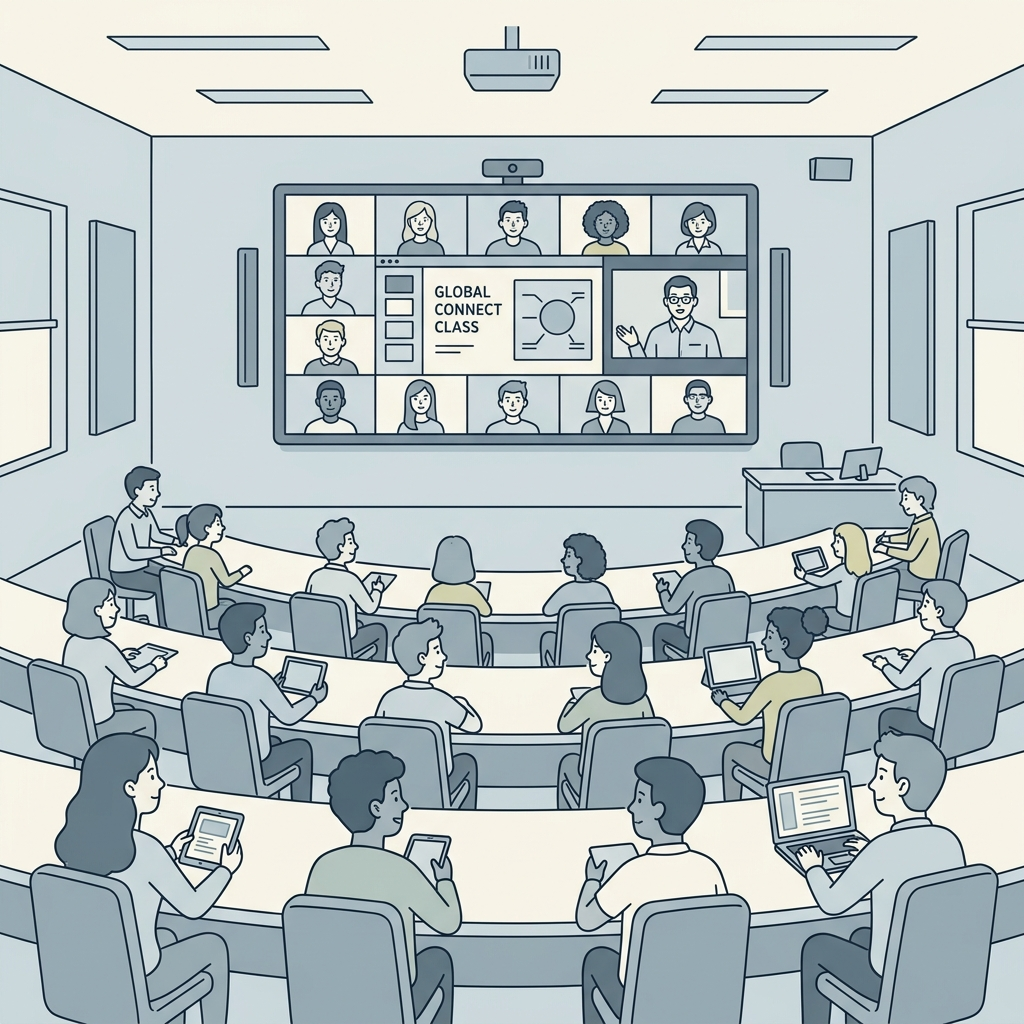
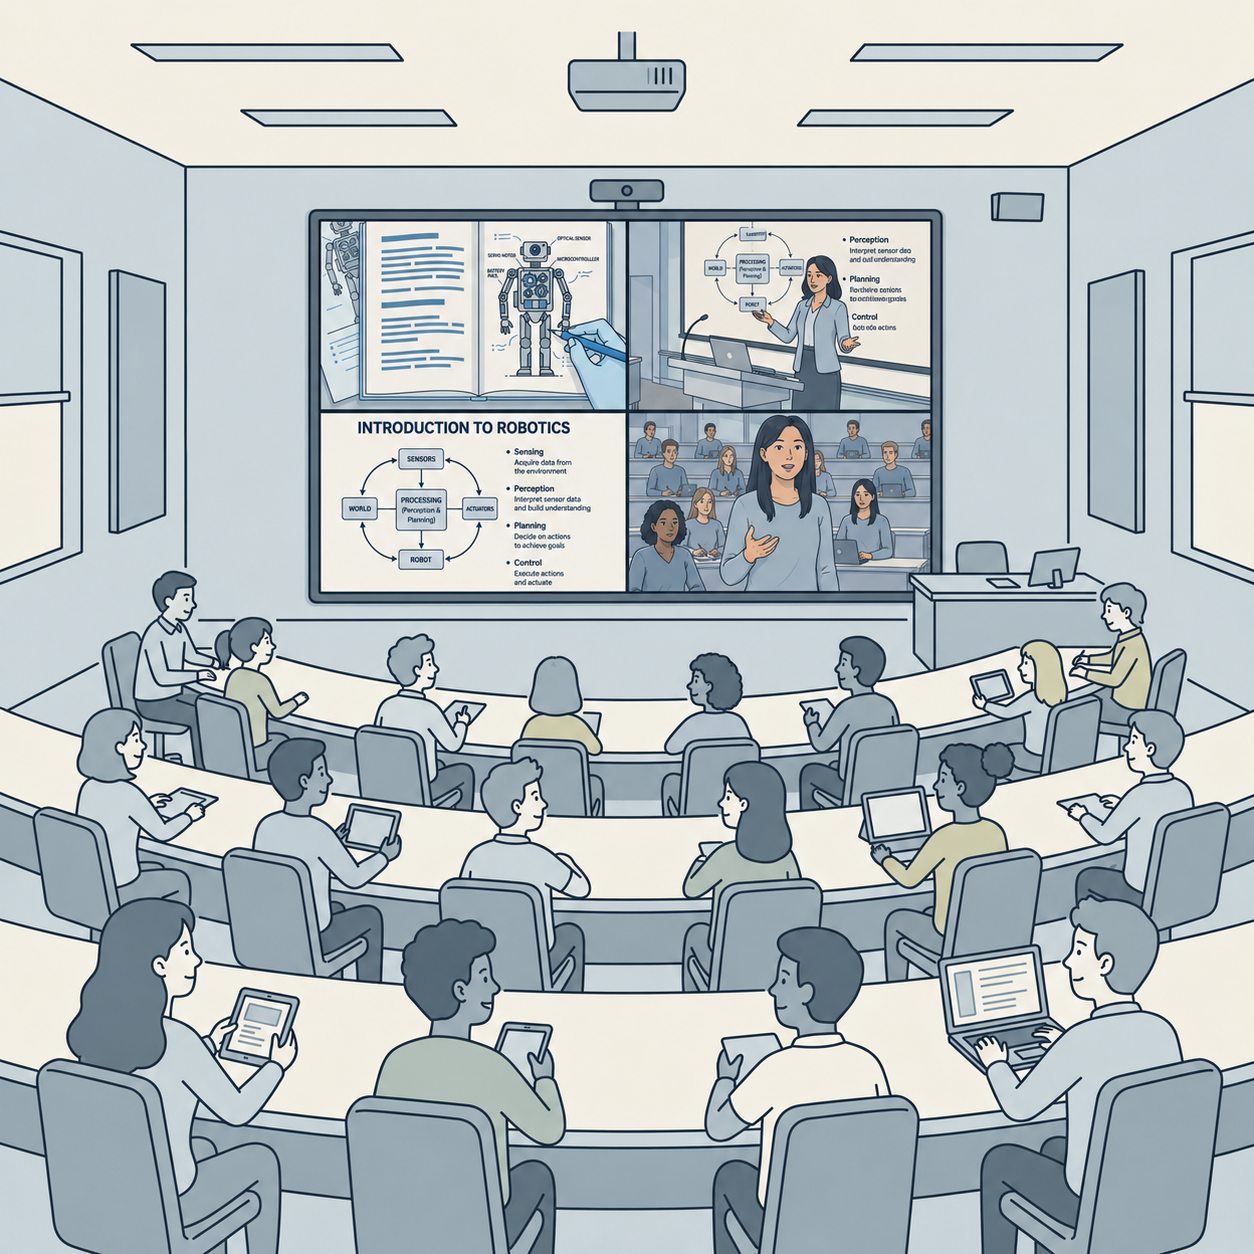
fix: adjust .lcs-three-rows layout to use CSS grid to resolve row clipping

diff --git a/src/mockups/lcs-landscape/styles.css b/src/mockups/lcs-landscape/styles.css
@@ -1432,14 +1432,14 @@
 }
 
 /* 4-split three-rows */
-.lcs-three-rows {
-  display: flex;
-  flex-direction: column;
+.lcs-split-left-col.lcs-three-rows {
+  display: grid !important;
+  grid-template-rows: 1fr 1fr 1fr !important;
   gap: 4px !important;
 }
 
 .lcs-three-rows .lcs-split-small-box {
-  height: 33.3% !important;
+  height: 100% !important;
 }
 
 /* Grid layout 2x2 */